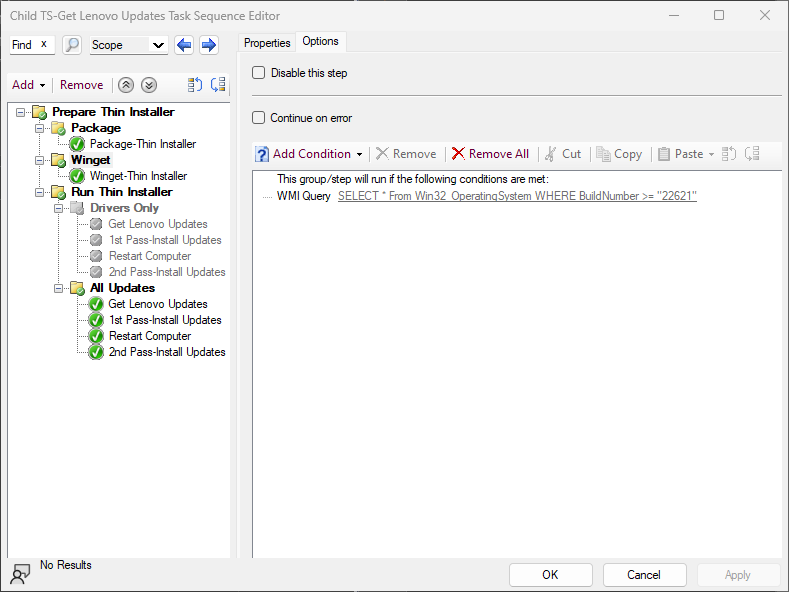
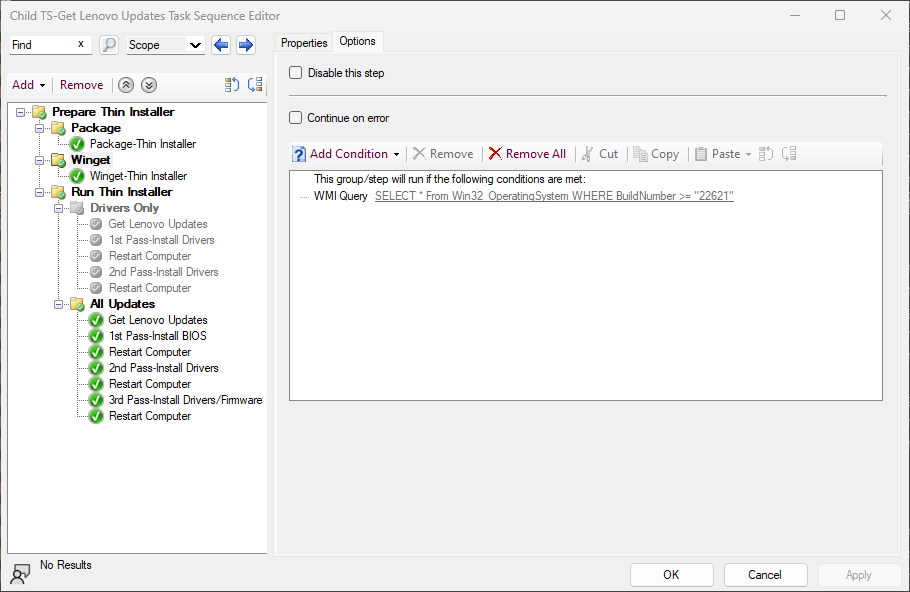
Add/replace screenshots and update doc

diff --git a/docs/2023/scripted_repo_creation.md b/docs/2023/scripted_repo_creation.md
@@ -47,20 +47,46 @@ catch {
 PowerShell script **Get-LnvUpdatesRepo.ps1** will download current updates from Lenovo's servers and store on the device. Parameters are supplied to specify the repository path, package types and reboot types to download:
 
 ```cmd
--RepositoryPath 'C:\Program Files (x86)\Lenovo\ThinInstaller\Repository' -PackageTypes '1,2,3' -RebootTypes '0,3,5' -RT5toRT3
+-RepositoryPath 'C:\Program Files (x86)\Lenovo\ThinInstaller\Repository' -PackageTypes '1,2,3,4' -RebootTypes '0,3,5' -RT5toRT3
 ```
 
 ![Get Lenovo Updates](../img/2023/scripted_repo_creation/image5.png)
 
 ?> The **All Updates** group contains the necessary parameters and Thin Installer command line to include Reboot Type 5 packages (BIOS/Firmware). The **Drivers** group will only download Reboot Type 3 packages (Drivers), and is disabled by default.
 
-Once all content is downloaded to the device, 2 passes of Thin Installer (with a reboot in between) installs all updates to ensure the device is current.
+Once all content is downloaded to the device, 3 passes of Thin Installer (with a reboot in between) installs all updates to ensure the device is current.
 
-```cmd
-ThinInstaller.exe /CM -search A -action INSTALL -includerebootpackages 0,3 -packagetypes 1,2,3 -noicon -noreboot -exporttowmi
-```
+### First Pass
 
 ![Run Thin Installer](../img/2023/scripted_repo_creation/image6.png)
+
+If a BIOS update is applicable, this package gets installed first using this Thin Installer command line
+
+```cmd
+ThinInstaller.exe /CM -search A -action INSTALL -includerebootpackages 0,3 -packagetypes 3 -noicon -noreboot -exporttowmi
+```
+
+### Second Pass
+
+![Run Thin Installer](../img/2023/scripted_repo_creation/image7.png)
+
+Only drivers and apps are filtered for installation using this command line
+
+```cmd
+ThinInstaller.exe /CM -search A -action INSTALL -includerebootpackages 0,3 -packagetypes 1,2 -noicon -noreboot -exporttowmi
+```
+
+### Final Pass
+
+![Run Thin Installer](../img/2023/scripted_repo_creation/image8.png)
+
+Firmware packages, such as Intel ME Firmware, are installed in the final pass using this command line
+
+```cmd
+ThinInstaller.exe /CM -search A -action INSTALL -includerebootpackages 0,3 -packagetypes 2,4 -noicon -noreboot -exporttowmi
+```
+
+***NOTE:*** In some cases, typically with Thunderbolt, there may be a requirement that the latest driver needs to be installed *BEFORE* the firmware can be updated. This pass will include drivers and firmware to only be installed.
 
 ### Summary
 
